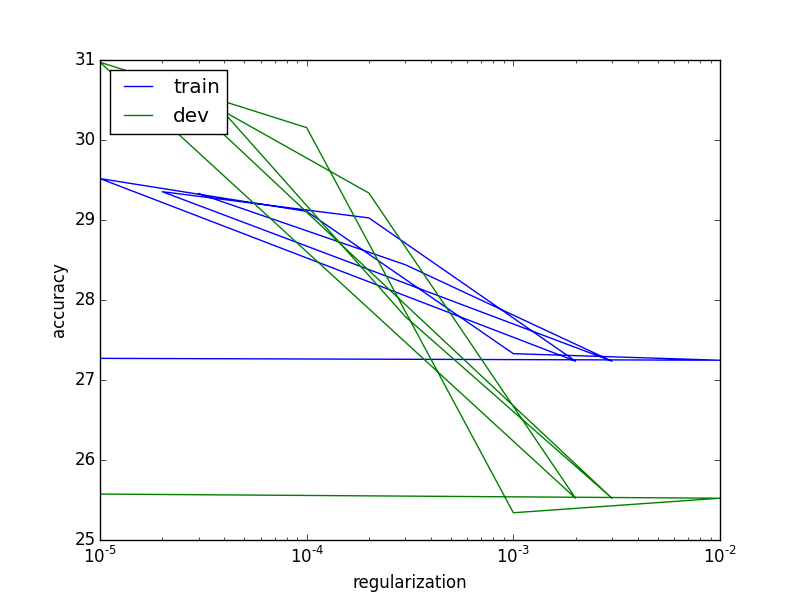
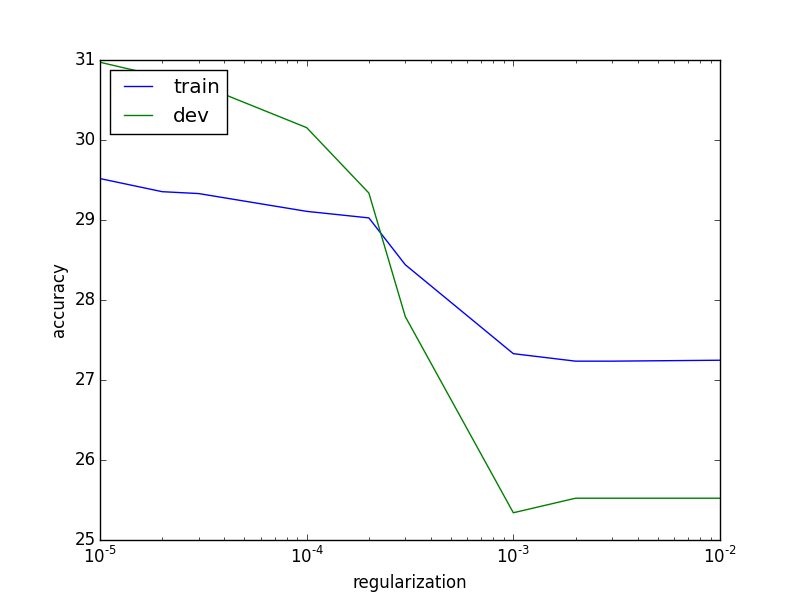
regularizations sorted

Changed region(s): [[0.125, 0.15, 0.875, 0.87], [0.125, 0.09, 0.1562, 0.12]]

diff --git a/q4_sentiment.py b/q4_sentiment.py
@@ -10,7 +10,7 @@ from q4_softmaxreg import softmaxRegression, getSentenceFeature, accuracy, softm
 # NOTE: fill in one more "your code here" below before running!
 REGULARIZATION = None   # Assign a list of floats in the block below
 ### YOUR CODE HERE
-REGULARIZATION = [0.0, 0.01, 0.001, 0.0001, 0.00001, 0.002, 0.0002, 0.00002, 0.003, 0.0003, 0.00003]
+REGULARIZATION = [0.0, 0.00001, 0.00002, 0.00003, 0.0001, 0.0002, 0.0003, 0.001, 0.002, 0.003, 0.01 ]
 ### END YOUR CODE
 
 # Load the dataset
